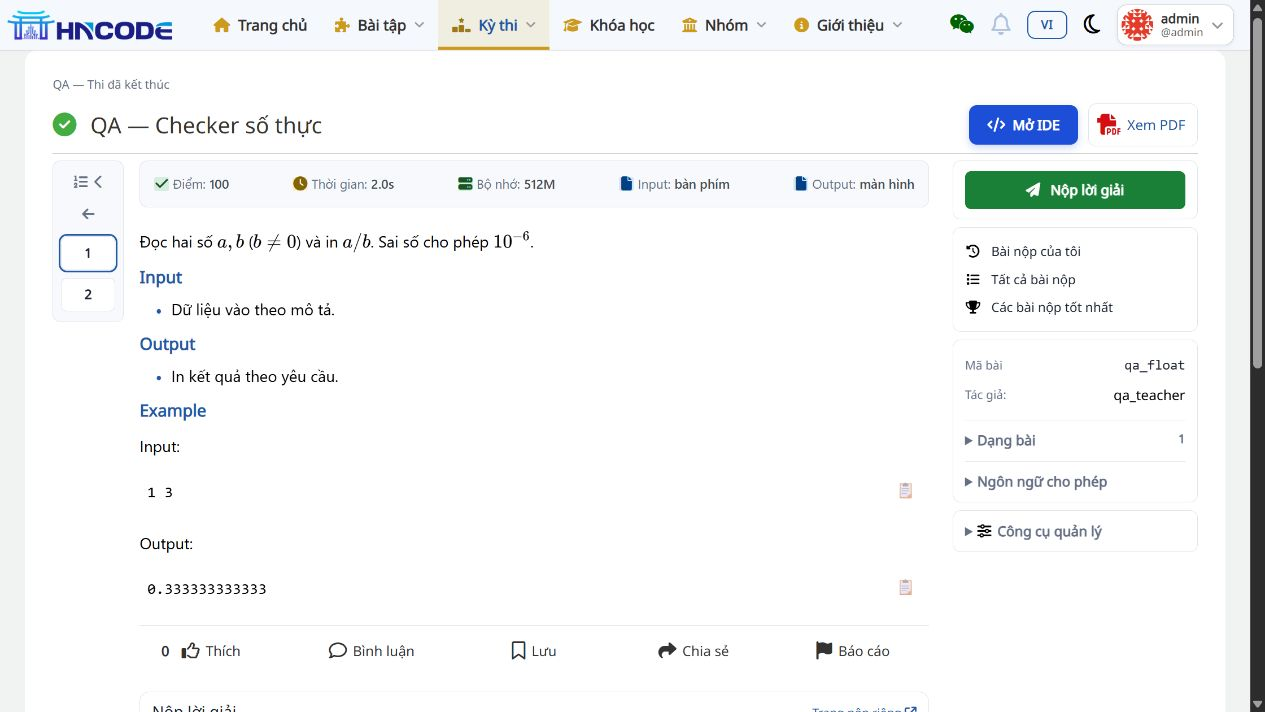
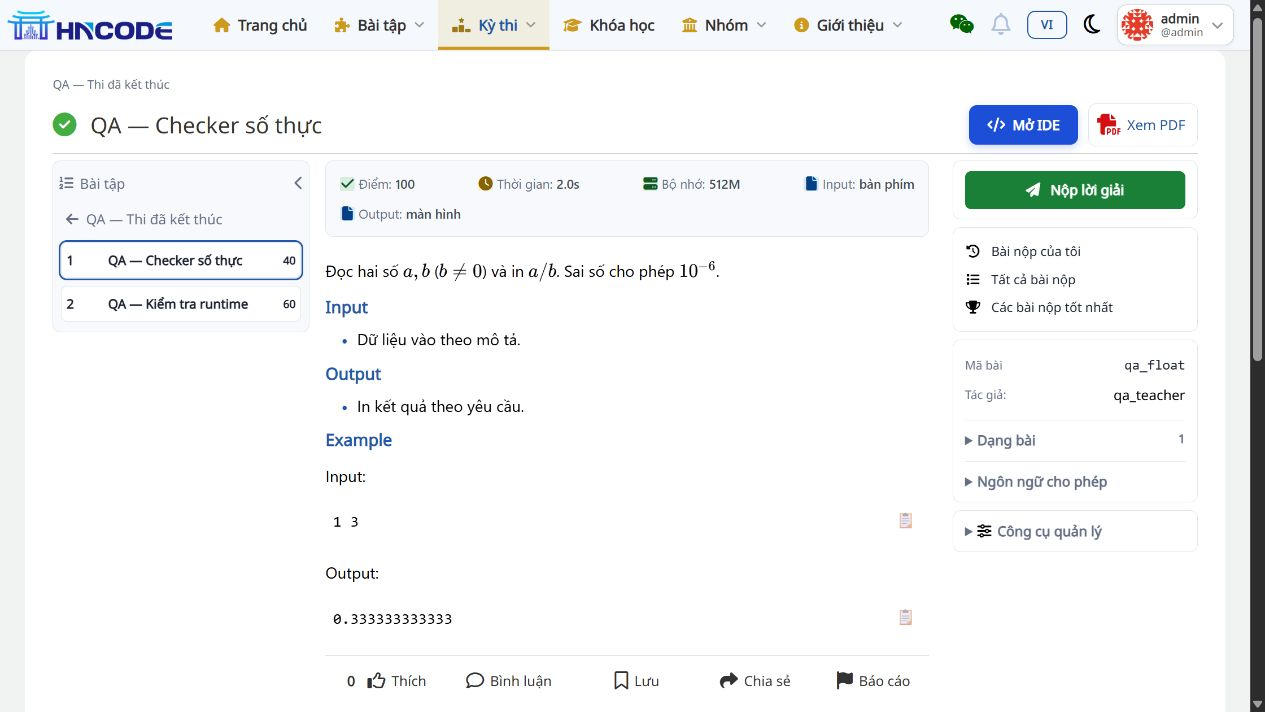
Clarify expanded and compact problem list modes with final QA evidence

diff --git a/docs/handoff-2026-11-14/06_MENU_CU_VA_COT_BAI_THU_GON.md b/docs/handoff-2026-11-14/06_MENU_CU_VA_COT_BAI_THU_GON.md
@@ -1,18 +1,19 @@
 # UI lần 4 — Menu cũ, cột bài bên trái và form nộp gọn
 
-Ngày cập nhật: 14/11/2026. Code: `7ce56f8f2985684af63cc2c1b4346bcdc50b2c9f`, nhánh `codex/backlog-20261113`. Bản này thay thế thiết kế menu mới và dải bài ngang của UI lần 3. Đã áp dụng trên bộ cài local `D:\AI-Code\Build_HNCode`, tại `http://localhost:8001/`.
+Ngày cập nhật: 14/11/2026. Code mới nhất: `2a19d1102be9ba7e0db5b12410c858fe81182d8e`, nhánh `codex/backlog-20261113`; nối tiếp sửa menu/form tại `7ce56f8`. Bản này thay thế thiết kế menu mới và dải bài ngang của UI lần 3. Đã áp dụng trên bộ cài local `D:\AI-Code\Build_HNCode`, tại `http://localhost:8001/`.
 
 ## 1. Thay đổi theo yêu cầu
 
 | Yêu cầu | Kết quả |
 |---|---|
 | Trả menu về kiểu cũ, chỉ căn logo | Bỏ stylesheet thiết kế lại menu; giữ menu gốc, căn logo giữa theo chiều dọc và giới hạn cao 34px |
-| Danh sách bài ở cột trái Lesson/Contest | Các ô STT theo thứ tự bài; nút mở/thu gọn cột, liên kết quay về Lesson/Contest |
-| Chỉ hiện số, màu và biểu tượng | Xanh ✓: AC đầy đủ; đỏ ✕: đã nộp nhưng chưa đạt; cam ○: có điểm nhưng chưa đầy đủ; mặc định không dấu: chưa có kết quả chấm hoàn tất |
+| Danh sách bài ở cột trái Lesson/Contest | **Mặc định mở rộng: STT, tên bài, điểm** theo thứ tự bài; có liên kết quay về Lesson/Contest |
+| Khi bấm thu gọn | Chỉ còn ô số, màu và biểu tượng; **vẫn giữ các ô để chuyển bài**, không ẩn cả danh sách |
+| Màu và biểu tượng | Xanh ✓: AC đầy đủ; đỏ ✕: đã nộp nhưng chưa đạt; cam ○: có điểm nhưng chưa đầy đủ; mặc định không dấu: chưa có kết quả chấm hoàn tất |
 | Bỏ ba tiêu đề ở cột phải | Bỏ chữ “Làm bài”, “Bài nộp”, “Thông tin bài”; giữ các nút, liên kết và dữ liệu |
 | Thu gọn dưới “Nộp lời giải” | Giảm khoảng cách, gom chọn ngôn ngữ và tải tệp, bỏ hướng dẫn lặp, đặt trạng thái nháp cạnh nút nộp |
 
-Nút **Mở IDE** tiếp tục nằm cạnh **Xem PDF** ở đầu trang. Tên bài và trạng thái vẫn có trong tooltip và nhãn hỗ trợ trình đọc màn hình. Cột trái thu gọn bằng phần tử `details`, dùng được bằng bàn phím.
+Nút **Mở IDE** tiếp tục nằm cạnh **Xem PDF** ở đầu trang. Tên bài và trạng thái vẫn có trong tooltip và nhãn hỗ trợ trình đọc màn hình khi thu gọn. Nút thu/mở dùng được bằng chuột và bàn phím, cập nhật `aria-expanded`. Tải trang mới mặc định mở rộng. Trên màn hình nhỏ, danh sách đầy đủ xếp trên vùng đề để giữ khả năng đọc; khi thu gọn, các ô số nằm bên trái vùng đề.
 
 ## 2. Quy tắc dữ liệu và phạm vi
 
@@ -38,12 +39,12 @@ CSS dùng cache token `20261114e`. Khi triển khai môi trường khác, thực
 
 | Kiểm tra | Kết quả |
 |---|---|
-| Nhóm test liên quan | **55 PASS**, 7,376 giây; [log](evidence/ide-ui-v4/tests.log) |
-| Toàn bộ `judge.tests chat_box.tests` | **1.364 PASS**, 119,343 giây; [log](evidence/ide-ui-v4/full-suite-final.log) |
+| Nhóm test liên quan tại 7ce56f8 | **55 PASS**, 7,376 giây; [log](evidence/ide-ui-v4/tests.log) |
+| Toàn bộ `judge.tests chat_box.tests` tại 2a19d11 | **1.364 PASS**, 126,956 giây, chạy lại sau khi sửa hai chế độ; [log](evidence/ide-ui-v4/full-suite-final.log) |
 | Định dạng Python và diff | Black 5 file PASS; `git diff --check` PASS |
 | Trang đề Lesson/Contest | Cột trái, ô trạng thái, chuyển bài, thu/mở cột hoạt động; ba tiêu đề cột phải đã bỏ |
-| Thu gọn ở viewport 1280px | Cột trái 72 → 36px; vùng đề rộng thêm 36px |
-| Viewport 390px | Không tràn ngang trang; [số đo](evidence/ide-ui-v4/mobile-layout.json) |
+| Thu gọn ở viewport 1280px | Cột trái 260 → 72px; vẫn hiện đủ ô bài và dấu trạng thái; mở lại hiện tên và điểm |
+| Viewport 390px | Hai chế độ không tràn ngang trang; danh sách đầy đủ rộng khoảng 348px phía trên đề, thu gọn thành cột trái 48px; [số đo](evidence/ide-ui-v4/mobile-layout.json) |
 | Nộp qua form gọn | Submission **#84 AC 100/100**, kết quả hiện ngay dưới form; giữ trên local để kiểm tra |
 | Dịch vụ local | Web/DB/gateway healthy, bridge/worker và hai judge đang chạy |
 
@@ -51,9 +52,9 @@ Một số test chủ động giả lập lỗi dịch vụ nên log có traceba
 
 ## 5. Ảnh đối chiếu
 
-![Lesson: menu gốc và cột bài trái](evidence/ide-ui-v4/lesson-left-rail.png)
+![Lesson: mặc định cột trái đầy đủ STT, tên bài và điểm](evidence/ide-ui-v4/lesson-left-rail.png)
 
-![Cột bài đã thu gọn](evidence/ide-ui-v4/rail-collapsed.png)
+![Cột bài đã thu gọn thành các ô số](evidence/ide-ui-v4/rail-collapsed.png)
 
 ![Contest: cột bài trái](evidence/ide-ui-v4/contest-left-rail.png)
 

diff --git a/docs/handoff-2026-11-14/PR_DRAFT.md b/docs/handoff-2026-11-14/PR_DRAFT.md
@@ -1,6 +1,6 @@
 ## Mục tiêu và phạm vi review
 
-Bản tích hợp phục vụ team kiểm tra các sửa Grades, bảng điểm/Excel, hiệu năng khóa học, lưu nháp IDE và API Cầy Cốt trước khi chọn phạm vi merge/deploy. Base là e665d7b, mốc code backlog đầu là 3932b12; mốc code UI và QA toàn hệ thống mới nhất là 7ce56f8. Các commit tài liệu bổ sung nằm sau mốc code.
+Bản tích hợp phục vụ team kiểm tra các sửa Grades, bảng điểm/Excel, hiệu năng khóa học, lưu nháp IDE và API Cầy Cốt trước khi chọn phạm vi merge/deploy. Base là e665d7b, mốc code backlog đầu là 3932b12; mốc code UI mới nhất là 2a19d11. Các commit tài liệu bổ sung nằm sau mốc code.
 
 Thay đổi chính:
 
@@ -8,7 +8,7 @@ Thay đổi chính:
 - Thêm STT và tổng điểm số, xuất XLSX theo bộ lọc/quyền; batch tính tiến độ nhiều khóa.
 - Sửa vòng đời Ace sau AJAX và nháp theo user/contest/problem/language; tích hợp strict IDE và sửa chuyển bài/ngôn ngữ.
 - Bổ sung thanh chuyển bài bằng số cho IDE Lesson/Contest với bốn màu theo kết quả tốt nhất, cập nhật sau chấm; ẩn lựa chọn máy chấm, dùng nhãn Run và bố cục đề gọn trên desktop/mobile.
-- Trang đề Lesson/Contest dùng cột bài trái thu gọn với số và dấu trạng thái, chung quy tắc với IDE; trả menu gốc và căn logo, đặt IDE cạnh PDF, thu gọn sidebar/form nộp.
+- Trang đề Lesson/Contest mặc định hiện cột trái gồm STT, tên bài, điểm; bấm thu gọn chuyển thành ô số và dấu trạng thái, chung quy tắc với IDE. Trả menu gốc và căn logo, đặt IDE cạnh PDF, thu gọn sidebar/form nộp.
 - Thêm bốn endpoint GET cho Cầy Cốt, token hash/scope, paging, che kết quả và quota; kèm contract.
 - Chuẩn bị xử lý AI Markdown/quyền task và khung kiểm kê nguồn đề; sửa chọn Language mặc định theo DB hiện tại.
 
@@ -27,7 +27,7 @@ Nhánh đã tích hợp nội dung PR #141 và #142 cùng sửa tiếp theo. Mai
 
 ## Kiểm thử đã thực hiện tại local
 
-- UI lần 4, code 7ce56f8: **1.364 PASS**, 119,343 giây; 55 test liên quan PASS. Menu gốc, cột bài trái thu gọn, bốn trạng thái, sidebar/form gọn. Đã kiểm tra Lesson/Contest, thu/mở cột, viewport 390px và nộp #84 AC 100/100. Chi tiết: `docs/handoff-2026-11-14/06_MENU_CU_VA_COT_BAI_THU_GON.md`. Thiết kế này thay thế menu và dải bài ngang của UI lần 3.
+- UI lần 4, code mới nhất 2a19d11: **1.364 PASS**, 126,956 giây; 55 test liên quan PASS tại 7ce56f8. Menu gốc, cột trái mặc định STT/tên/điểm, thu gọn thành ô số với bốn trạng thái, sidebar/form gọn. Đã kiểm tra Lesson/Contest, thu/mở cột, bàn phím, hai chế độ ở viewport 390px và nộp #84 AC 100/100 qua form gọn. Chi tiết: `docs/handoff-2026-11-14/06_MENU_CU_VA_COT_BAI_THU_GON.md`. Thiết kế này thay thế menu và dải bài ngang của UI lần 3.
 - UI lần 3, code d21c202: **59 test liên quan PASS**, 7,968 giây. Làm nổi IDE cạnh PDF, dải bài ngang Lesson/Contest và menu mới. Đã kiểm tra desktop/tablet/mobile, theme tối, menu con bằng bàn phím và link vào IDE; chưa chạy lại full suite trong lượt template/CSS này. Chi tiết: `docs/handoff-2026-11-14/05_MO_IDE_BO_CUC_VA_MENU.md`.
 - UI lần 2, code 5284d4d: **1.364 PASS**, 116,201 giây; 88 test nhóm UI PASS. Toolbar IDE một dòng, thêm dấu ✓/✕/○, sidebar chia nhóm và form “Nộp lời giải”. Tải tệp C++ và nộp #81/#82 AC ngay trong trang. Chi tiết: `docs/handoff-2026-11-14/04_TINH_GON_IDE_SIDEBAR_FORM.md`.
 - Sau bổ sung UI tại code 96acf04: **1.364 test toàn hệ thống PASS**, 111,539 giây; 14 test mới kiểm tra trạng thái, quyền, context và máy chấm mặc định. Đã thử Run thật và submission #79 CE/#80 AC. Chi tiết trong `docs/handoff-2026-11-14/03_GIAO_DIEN_IDE_VA_DE_BAI.md`.

diff --git a/docs/handoff-2026-11-14/README.md b/docs/handoff-2026-11-14/README.md
@@ -11,7 +11,7 @@ Gói bàn giao phục vụ review code, tái kiểm thử, quyết định merge
 | Repository | [tinkerpartners/hncode-edu](https://github.com/tinkerpartners/hncode-edu) |
 | Base của đợt sửa | `e665d7b3642478fbeb102b45411ad56d59197a3f` |
 | Mốc code đã bàn giao | `3932b12` |
-| Mốc UI mới nhất | `7ce56f8` — trả menu gốc, cột bài trái thu gọn và form nộp gọn |
+| Mốc UI mới nhất | `2a19d11` — cột trái mặc định đầy đủ STT/tên/điểm, thu gọn thành ô số; menu gốc và form gọn tại `7ce56f8` |
 | Nhánh local | `codex/backlog-20261113` |
 | Checkout chứa commit để review | `D:\AI-Code\Build_HNCode\.local\worktrees\backlog-20261113` |
 | Checkout đang chạy local | `D:\AI-Code\Build_HNCode` |
@@ -19,7 +19,7 @@ Gói bàn giao phục vụ review code, tái kiểm thử, quyết định merge
 | Schema DB | Diff so với base có 0 migration mới |
 | Dependency bổ sung | `openpyxl>=3.1.5,<4` trong requirements.txt |
 
-Checkout đang chạy ứng dụng có các tùy chỉnh vận hành và nhận code qua patch. Khi tạo PR, sử dụng nhánh trong checkout review ở bảng trên. Mốc code backlog đầu là 3932b12; mốc UI đầu là 96acf04. UI lần 4 tại 7ce56f8 đã chạy lại toàn bộ 1.364 test và thay thế thiết kế menu/dải bài ngang của UI lần 3. Commit tài liệu nằm sau mốc code.
+Checkout đang chạy ứng dụng có các tùy chỉnh vận hành và nhận code qua patch. Khi tạo PR, sử dụng nhánh trong checkout review ở bảng trên. Mốc code backlog đầu là 3932b12; mốc UI đầu là 96acf04. UI lần 4 thay thế thiết kế menu/dải bài ngang của UI lần 3; code mới nhất là 2a19d11. Commit tài liệu nằm sau mốc code. Các lượt kiểm thử ghi SHA và log trong báo cáo UI lần 4.
 
 ## 2. Cách đọc tài liệu
 
@@ -71,7 +71,7 @@ Nhánh có nội dung PR [#141](https://github.com/tinkerpartners/hncode-edu/pul
 
 | Bằng chứng | Kết quả và giới hạn |
 |---|---|
-| QA UI lần 4, mới nhất | **1.364 PASS**, 119,343 giây; [log](evidence/ide-ui-v4/full-suite-final.log); nộp #84 AC 100/100 |
+| QA UI lần 4, mới nhất tại 2a19d11 | **1.364 PASS**, 126,956 giây; [log](evidence/ide-ui-v4/full-suite-final.log); nộp #84 AC 100/100 tại lượt sửa form |
 | QA UI lần 2 | **1.364 PASS**, 116,201 giây; [log](evidence/ide-ui-v2/full-suite-final.log) |
 | Bộ test sau bổ sung giao diện | **1.364 PASS**, 111,539 giây; [log mới nhất](evidence/ide-ui/full-suite-final.log) |
 | Bộ test toàn hệ thống tại local | 1.349 test PASS, 110,523 giây; [log](evidence/full-suite-final.log) |

diff --git a/docs/handoff-2026-11-14/evidence/README.md b/docs/handoff-2026-11-14/evidence/README.md
@@ -6,7 +6,7 @@ Các file trong thư mục được chọn từ lượt kiểm tra local. Chúng
 
 | File | Mục đích / giới hạn |
 |---|---|
-| [ide-ui-v4/full-suite-final.log](ide-ui-v4/full-suite-final.log), [tests.log](ide-ui-v4/tests.log) | UI mới nhất: 1.364 test PASS, 119,343 giây; 55 test liên quan PASS |
+| [ide-ui-v4/full-suite-final.log](ide-ui-v4/full-suite-final.log), [tests.log](ide-ui-v4/tests.log) | UI mới nhất tại 2a19d11: 1.364 test PASS, 126,956 giây; 55 test liên quan PASS tại 7ce56f8 |
 | [Lesson](ide-ui-v4/lesson-left-rail.png), [thu gọn](ide-ui-v4/rail-collapsed.png), [Contest](ide-ui-v4/contest-left-rail.png) | Menu gốc, cột trái và ô trạng thái; QA trình duyệt bằng admin |
 | [Form và AC](ide-ui-v4/submit-accepted.png), [mobile](ide-ui-v4/mobile-layout.json) | #84 AC 100/100; số đo viewport 390px không tràn ngang |
 | [full-suite-final.log](full-suite-final.log) | 1.349 test toàn hệ thống PASS, 110,523 giây |
